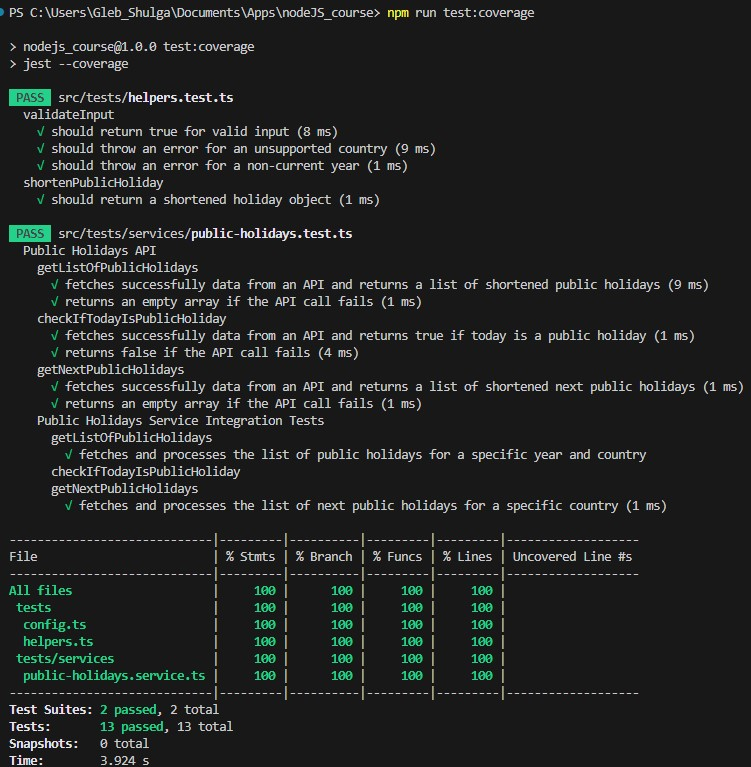
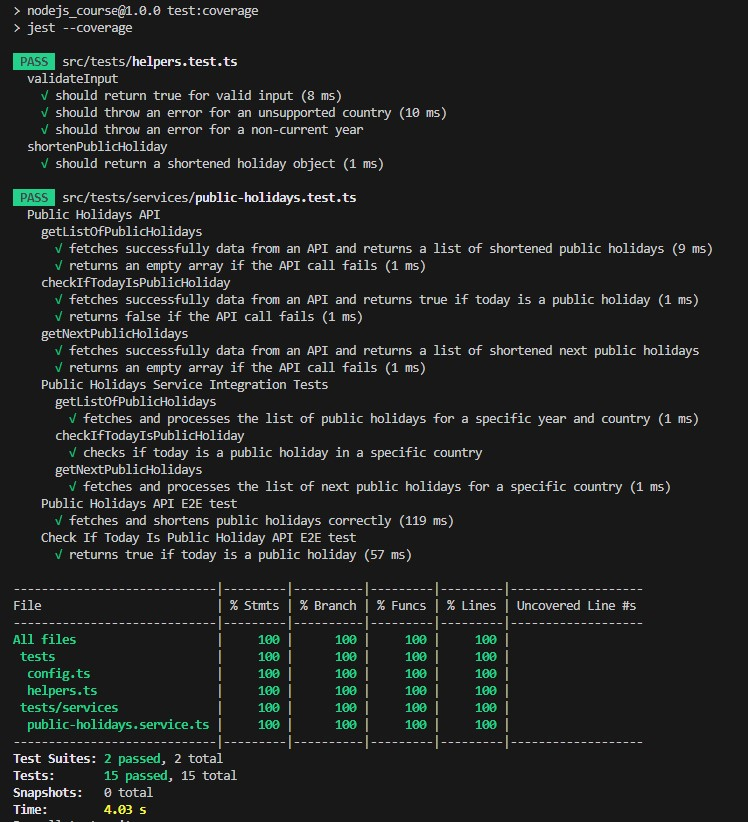
add E2E tests

Changed region(s): [[0.0, 0.0, 0.984, 1.0], [0.861, 0.6597, 0.8917, 0.6897], [0.7072, 0.6297, 0.738, 0.6597]]

diff --git a/src/tests/services/public-holidays.test.ts b/src/tests/services/public-holidays.test.ts
@@ -1,11 +1,12 @@
 import axios from "axios";
-import { shortenPublicHoliday } from "../helpers"; // Replace with the actual helper path
+import request from "supertest";
+import { shortenPublicHoliday } from "../helpers";
 import {
   checkIfTodayIsPublicHoliday,
   getListOfPublicHolidays,
   getNextPublicHolidays,
 } from "./public-holidays.service";
-import * as helpers from "../helpers";
+import { PUBLIC_HOLIDAYS_API_URL } from "../config";
 
 jest.mock("axios");
 
@@ -133,22 +134,57 @@ describe("Public Holidays API", () => {
     describe("getListOfPublicHolidays", () => {
       it("fetches and processes the list of public holidays for a specific year and country", async () => {
         const result = await getListOfPublicHolidays(2023, "FR");
-        expect(result).toEqual(expect.any(Array)); // Assert against the actual response
+        expect(result).toEqual(expect.any(Array));
       });
     });
 
     describe("checkIfTodayIsPublicHoliday", () => {
       it("checks if today is a public holiday in a specific country", async () => {
         const result = await checkIfTodayIsPublicHoliday("FR");
-        expect(result).toEqual(expect.any(Boolean)); // Assert against the actual response
+        expect(result).toEqual(expect.any(Boolean));
       });
     });
 
     describe("getNextPublicHolidays", () => {
       it("fetches and processes the list of next public holidays for a specific country", async () => {
         const result = await getNextPublicHolidays("FR");
-        expect(result).toEqual(expect.any(Array)); // Assert against the actual response
+        expect(result).toEqual(expect.any(Array));
       });
+    });
+  });
+
+  describe("Public Holidays API E2E test", () => {
+    it("fetches and shortens public holidays correctly", async () => {
+      const year = 2023;
+      const country = "FR";
+
+      const response = await request(PUBLIC_HOLIDAYS_API_URL)
+        .get(`/PublicHolidays/${year}/${country}`)
+        .expect(200);
+
+      expect(response.body).toContainEqual(
+        expect.objectContaining({
+          name: expect.any(String),
+          localName: expect.any(String),
+          date: expect.any(String),
+          countryCode: expect.any(String),
+          fixed: expect.any(Boolean),
+          global: expect.any(Boolean),
+          launchYear: expect.any(Number),
+        })
+      );
+    });
+  });
+
+  describe("Check If Today Is Public Holiday API E2E test", () => {
+    it("returns true if today is a public holiday", async () => {
+      const country = "NL";
+
+      const response = await request(PUBLIC_HOLIDAYS_API_URL).get(
+        `/IsTodayPublicHoliday/${country}`
+      );
+
+      expect([200, 204]).toContain(response.status);
     });
   });
 });
